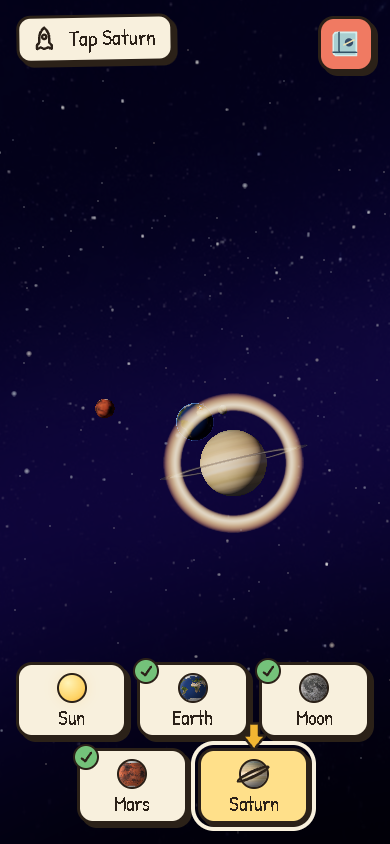
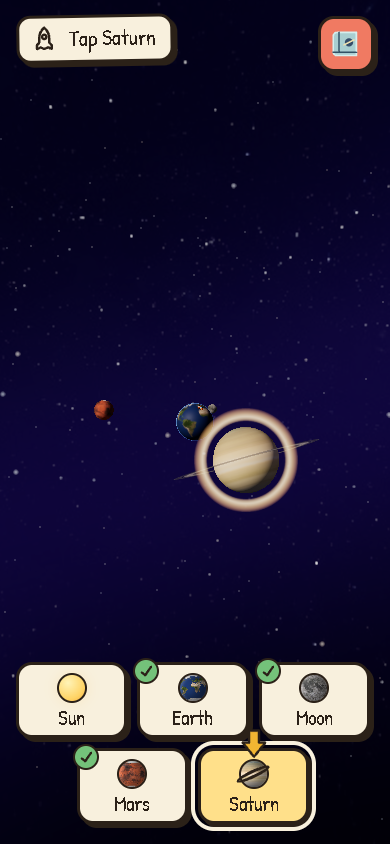
Shrink Saturn's next-world ring (owner, map review)

diff --git a/src/scene/Bodies.ts b/src/scene/Bodies.ts
@@ -461,8 +461,9 @@ function createOrbitingBody(
     hitMeshes = [targets.planet, targets.rings];
     // The selection ring takes in the whole ring system. Was 2.4, lowered with the others
     // for the same reason — and a ringed world needs it least, since this is a multiple of
-    // the *outer ring* rather than of the body.
-    selectionScale = worldViewRadius(world) * 1.7;
+    // the *outer ring* rather than of the body. 1.7 → 1.35 once the ring became the map's
+    // always-on "go here" (owner, map review): at 1.7 it dwarfed Saturn on the tablet.
+    selectionScale = worldViewRadius(world) * 1.35;
   } else {
     // Floored, because a small body far from the camera is otherwise a pixel-hunt.
     const hit = createHitMesh(Math.max(0.72, world.radius * 2.6));

diff --git a/design/map-next/index.html b/design/map-next/index.html
@@ -79,7 +79,7 @@ img { display: block; max-width: 100%; height: auto; border: 3px solid var(--fra
 
   <section class="state">
     <h2>6 · Back from Mars: Saturn unlocks</h2>
-    <p>Three ticks; the same unlock moment, then the arrow on Saturn. Saturn's ring takes in its rings, so it is the largest. Worth a look on the tablet.</p>
+    <p>Three ticks; the same unlock moment, then the arrow on Saturn. Saturn's ring is now about a fifth smaller than in the first review (owner: "make Saturn's ring smaller on tablet"). The ring's size is in world units, so it is smaller on the phone too.</p>
     <div class="shots" data-shot="6-map-after-mars"></div>
   </section>
 
